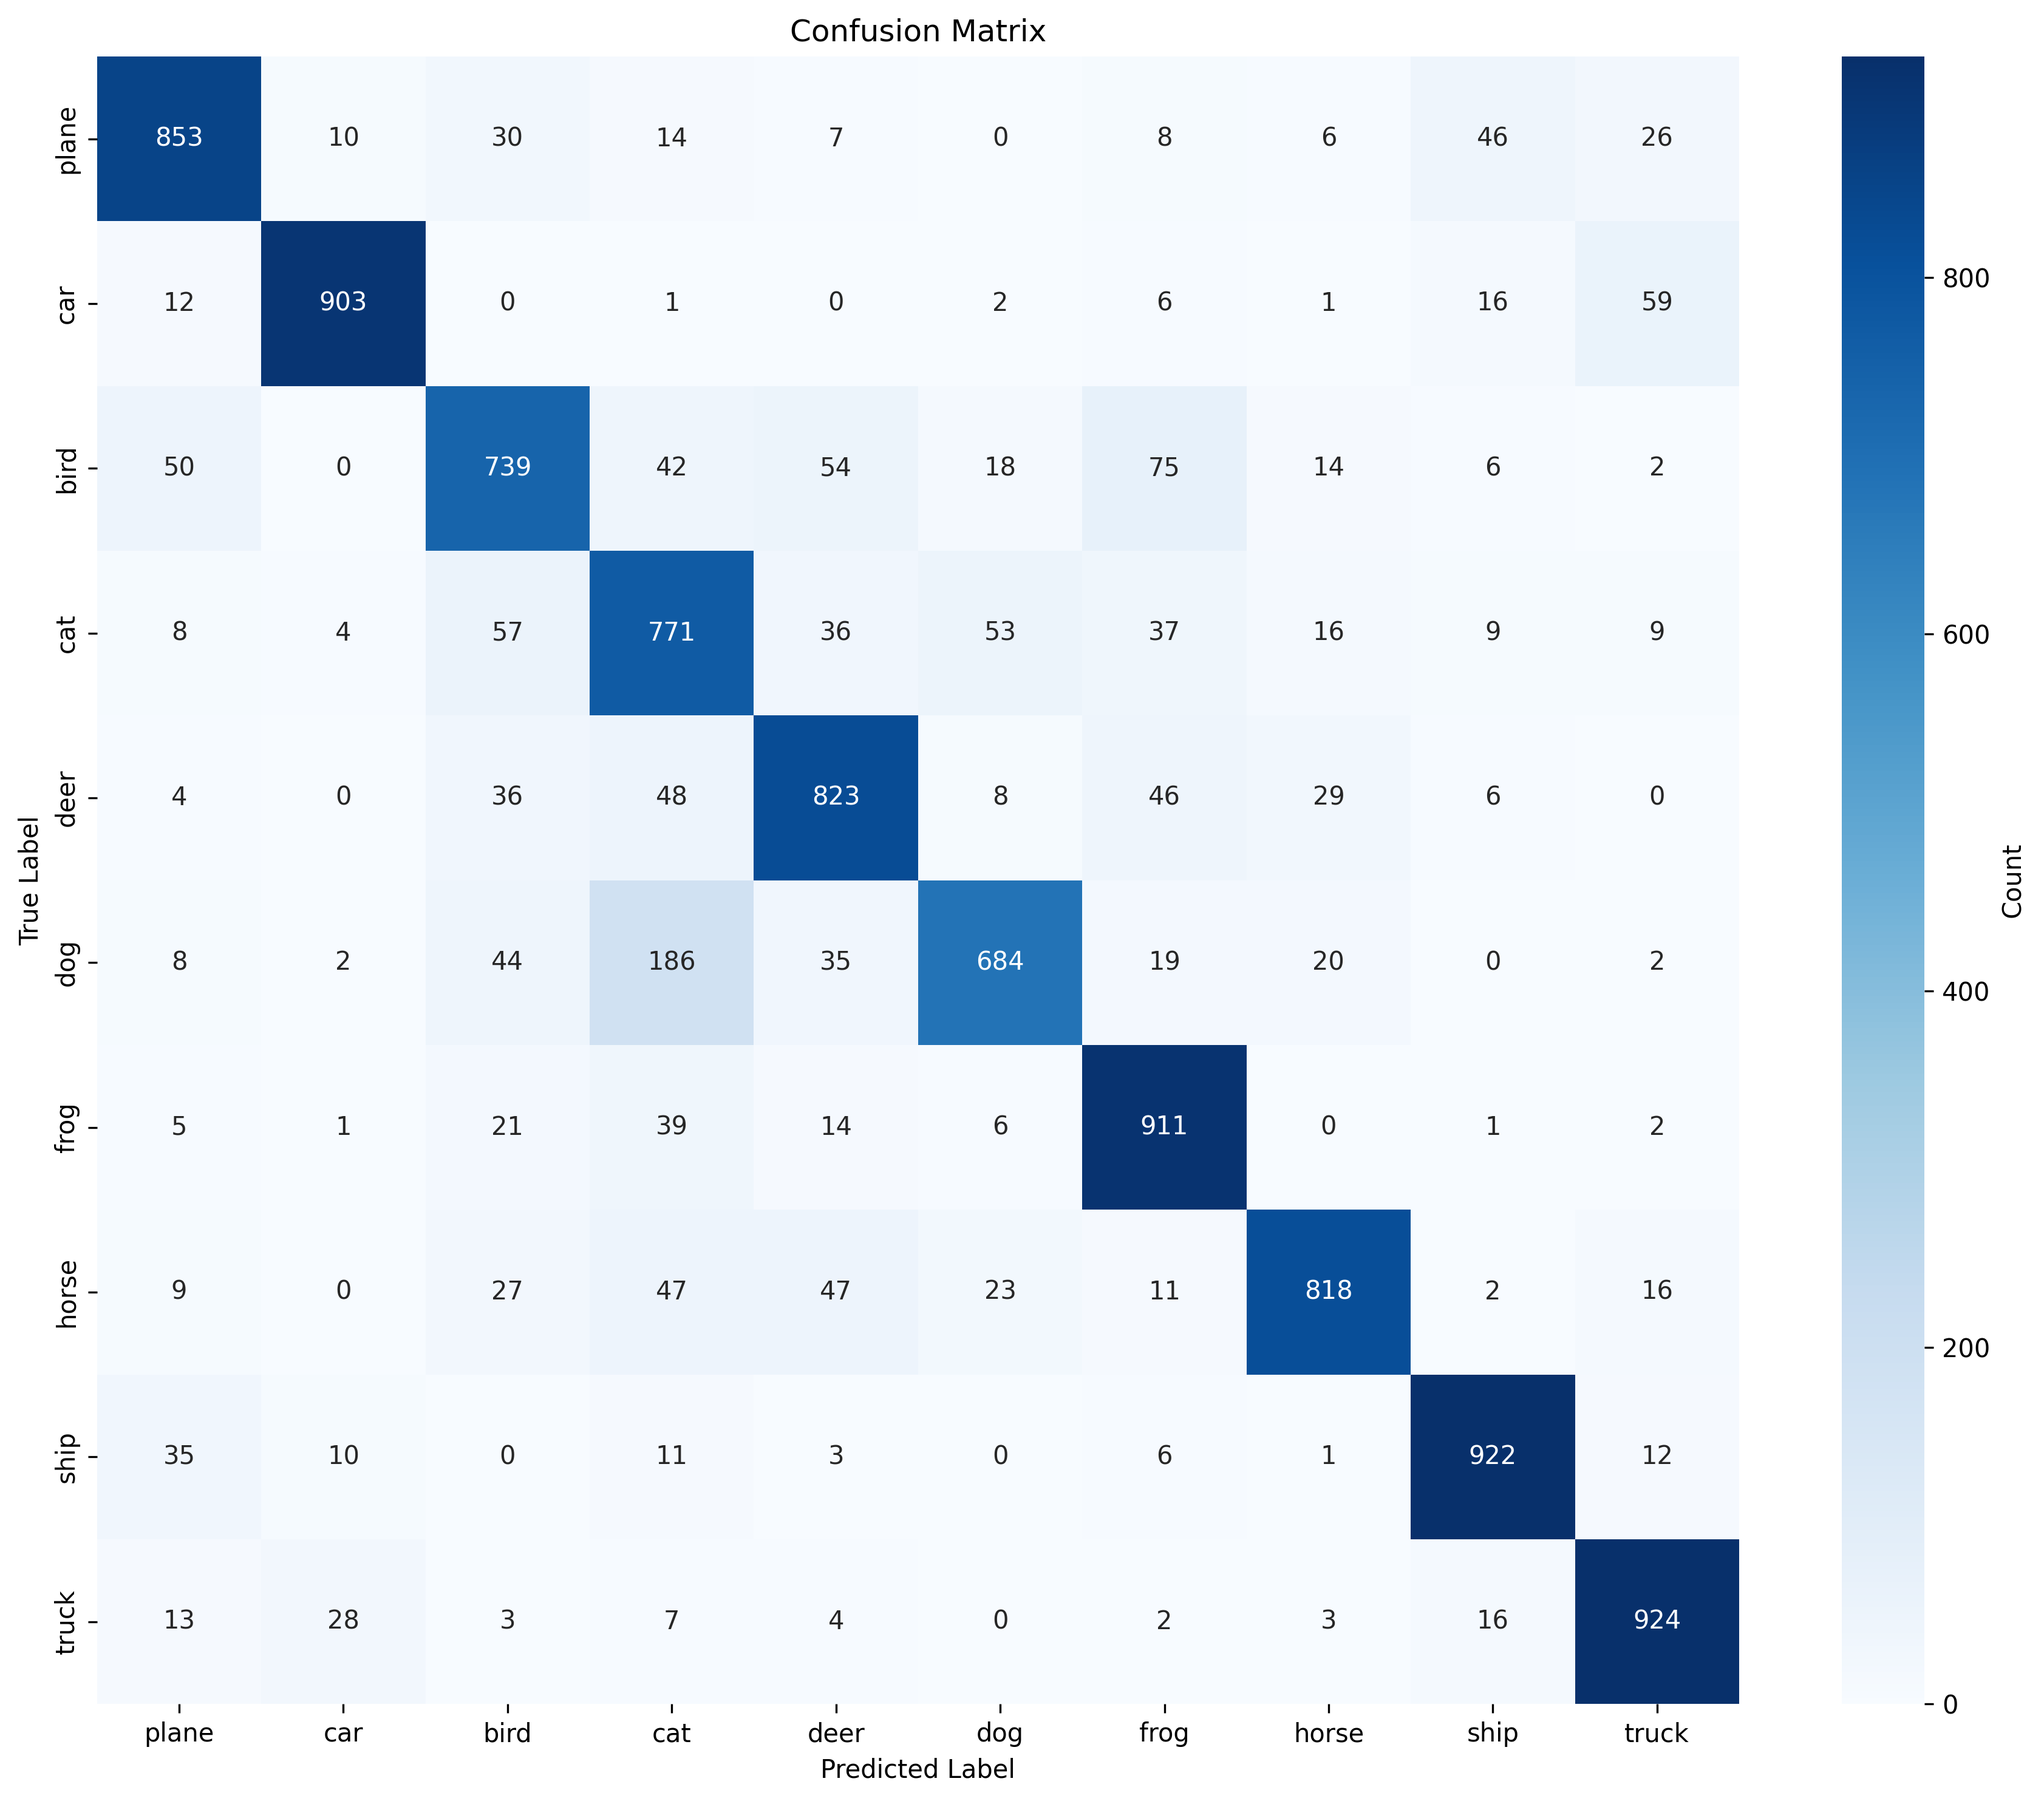
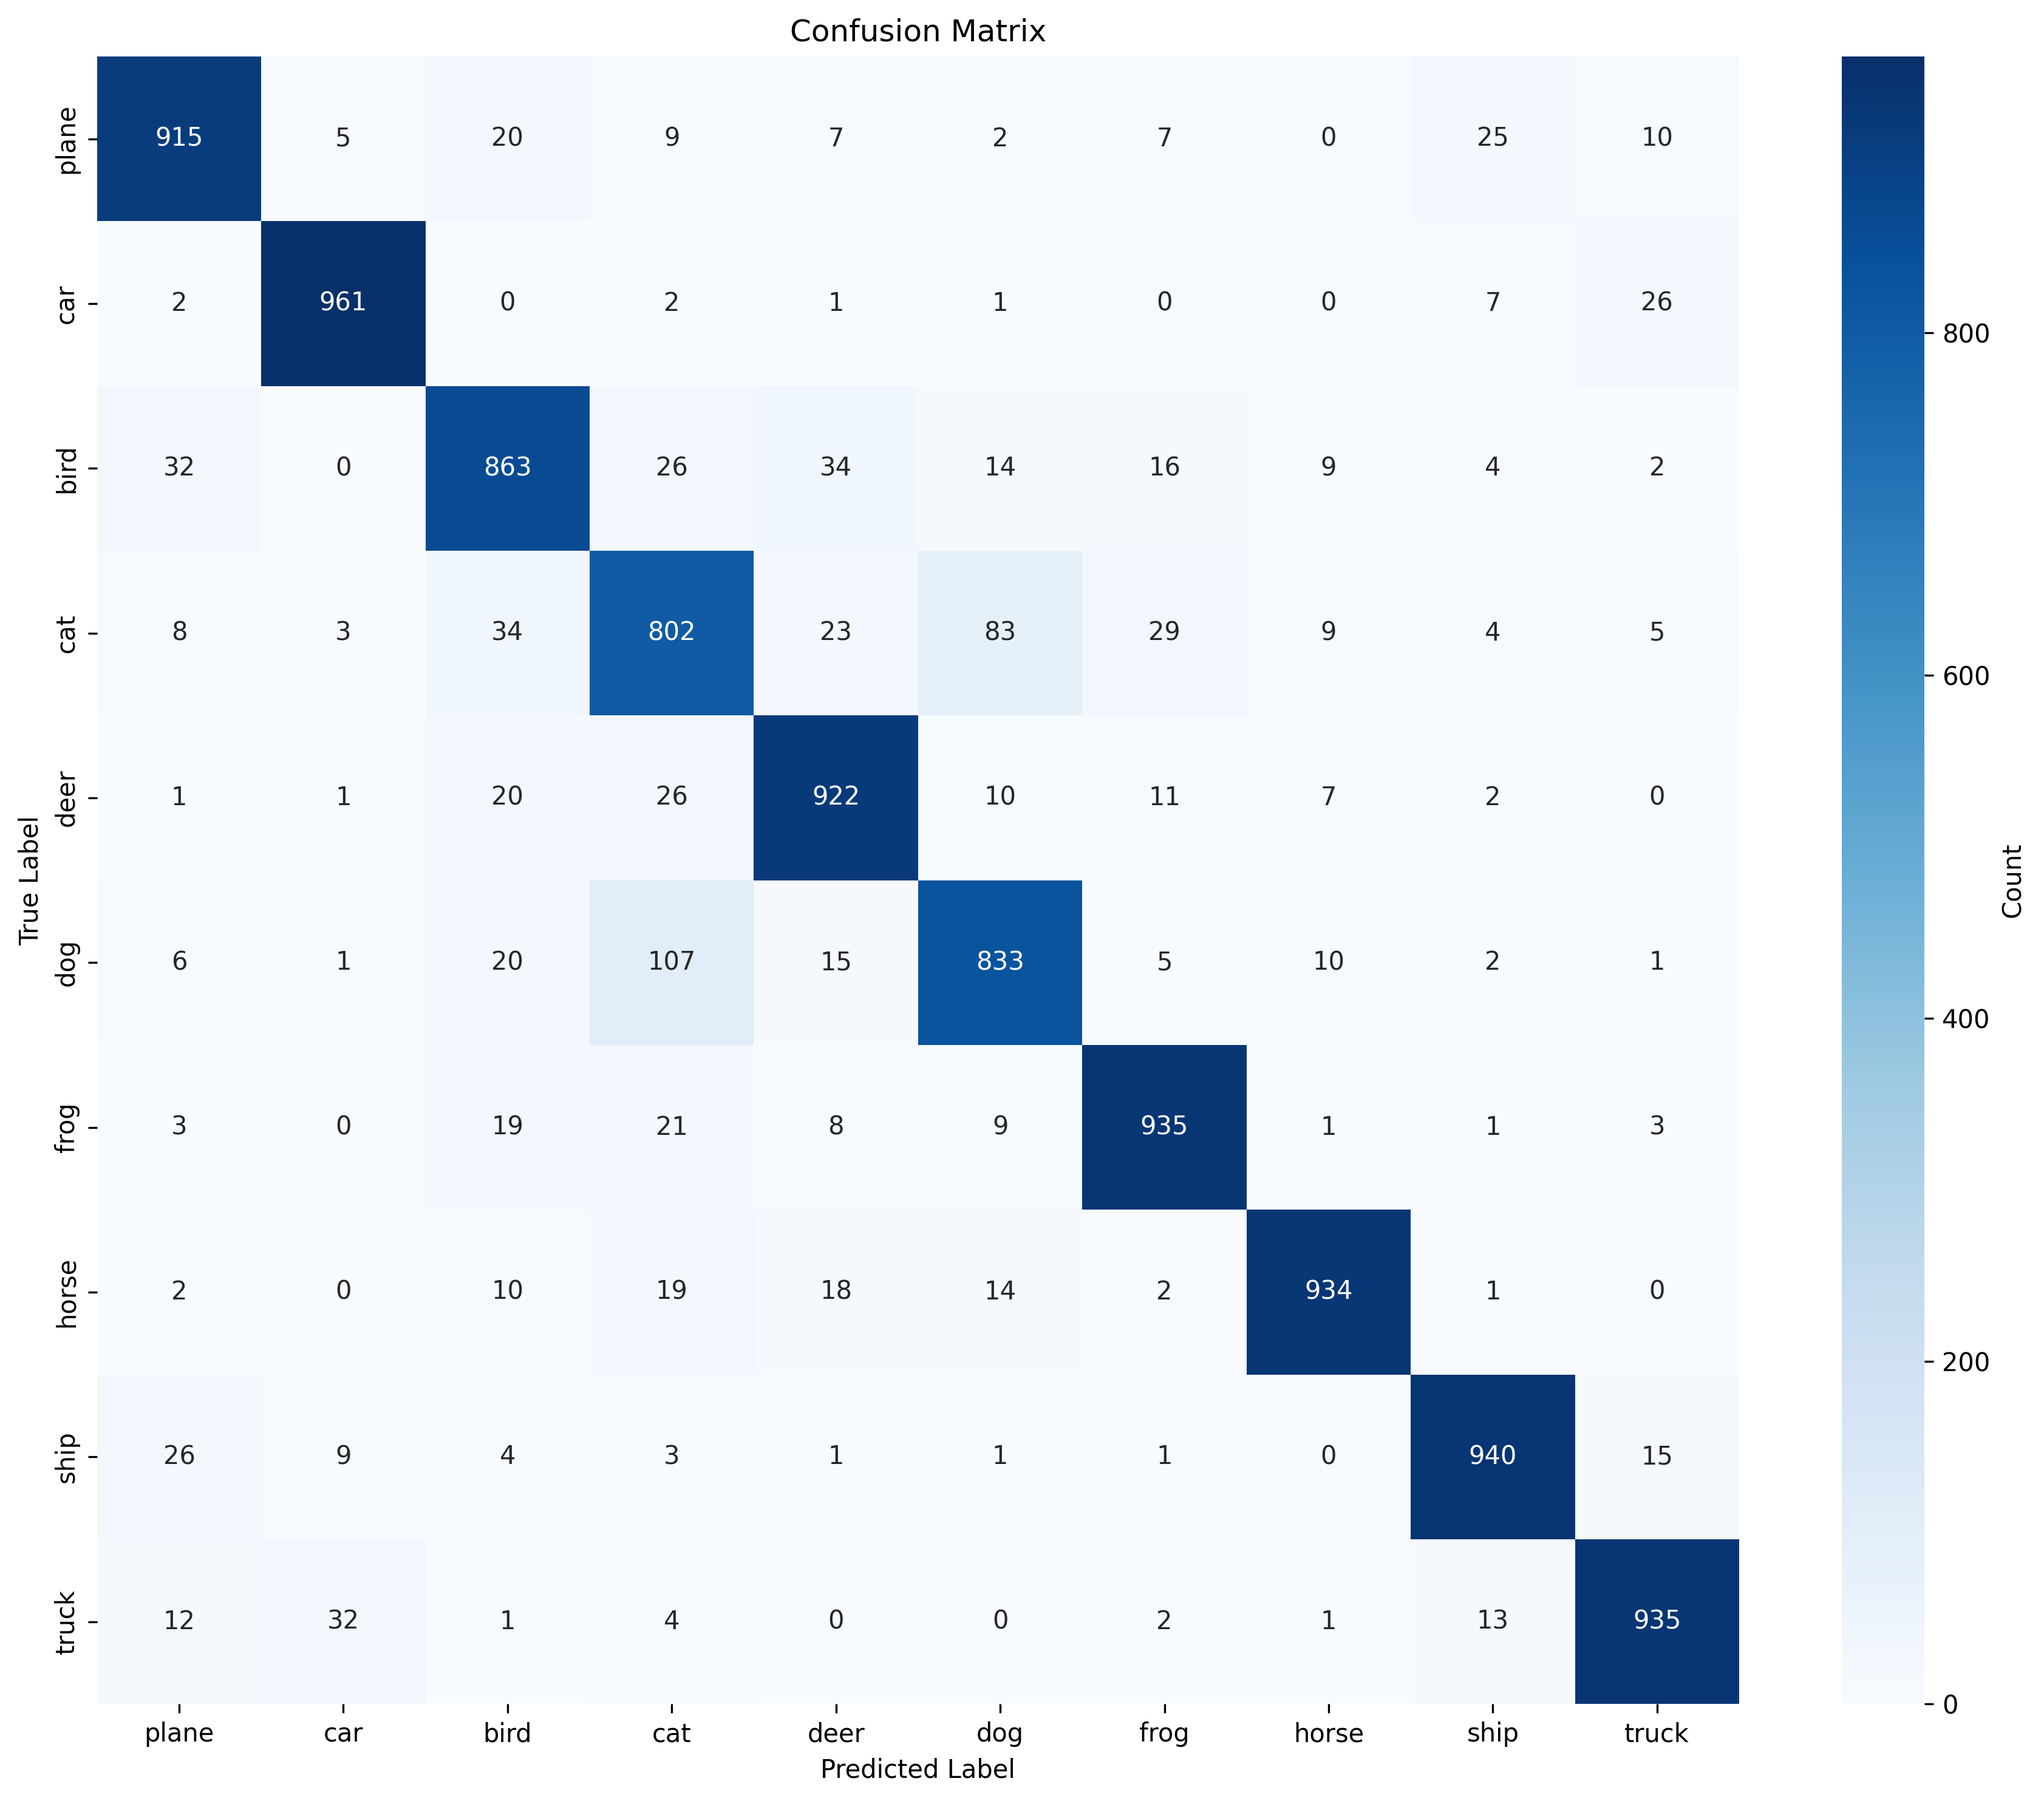
Update model, training code, and configurations

diff --git a/src/trainer.py b/src/trainer.py
@@ -17,6 +17,7 @@ class Trainer:
     def __init__(self, model, device):
         self.model = model
         self.device = device
+        self.amp_enabled = self.device.type == "cuda" and config.AMP_ENABLED
         
         # Move model to device
         self.model.to(device)
@@ -44,6 +45,9 @@ class Trainer:
         
         self.best_acc = 0.0
         self.patience_counter = 0
+
+        if self.amp_enabled:
+            print("Mixed precision (AMP): enabled")
     
     def _get_scheduler(self):
         """Get learning rate scheduler"""
@@ -69,12 +73,18 @@ class Trainer:
         for batch_idx, (inputs, targets) in enumerate(train_loader):
             inputs, targets = inputs.to(self.device), targets.to(self.device)
             
-            # Forward pass
-            outputs = self.model(inputs)
-            loss = self.criterion(outputs, targets)
-            
+            # Forward pass with mixed precision on CUDA.
+            with torch.autocast(
+                device_type=self.device.type,
+                dtype=torch.float16,
+                enabled=self.amp_enabled,
+            ):
+                outputs = self.model(inputs)
+                loss = self.criterion(outputs, targets)
+
             # Backward pass
-            self.optimizer.zero_grad()
+            self.optimizer.zero_grad(set_to_none=True)
+            # Autocast-only AMP keeps memory usage low on small GPUs.
             loss.backward()
             torch.nn.utils.clip_grad_norm_(self.model.parameters(), max_norm=1.0)
             self.optimizer.step()
@@ -109,8 +119,13 @@ class Trainer:
             for inputs, targets in val_loader:
                 inputs, targets = inputs.to(self.device), targets.to(self.device)
                 
-                outputs = self.model(inputs)
-                loss = self.criterion(outputs, targets)
+                with torch.autocast(
+                    device_type=self.device.type,
+                    dtype=torch.float16,
+                    enabled=self.amp_enabled,
+                ):
+                    outputs = self.model(inputs)
+                    loss = self.criterion(outputs, targets)
                 
                 acc1, acc5 = accuracy(outputs, targets, topk=(1, 5))
                 

diff --git a/src/utils.py b/src/utils.py
@@ -18,13 +18,21 @@ def set_seed(seed):
 
 
 def get_device():
-    """Get device (GPU or CPU)"""
-    if torch.cuda.is_available() and config.DEVICE == "cuda":
-        device = torch.device("cuda")
-        print(f"Using GPU: {torch.cuda.get_device_name(0)}")
-    else:
-        device = torch.device("cpu")
-        print("Using CPU")
+    """Return the configured device, falling back to CPU when CUDA is unavailable."""
+    requested_device = str(config.DEVICE).lower()
+
+    if requested_device.startswith("cuda"):
+        if torch.cuda.is_available():
+            device = torch.device(config.DEVICE)
+            print(f"Using GPU: {torch.cuda.get_device_name(device.index or 0)}")
+            return device
+
+        # A CPU-only PyTorch build or a missing/incompatible NVIDIA driver
+        # should not prevent inference in the Streamlit app.
+        print("CUDA is unavailable; falling back to CPU.")
+
+    device = torch.device("cpu")
+    print("Using CPU")
     return device
 
 
@@ -106,8 +114,12 @@ class AverageMeter:
 
 
 def accuracy(output, target, topk=(1,)):
-    """Calculate top-k accuracy"""
+    """Calculate top-k accuracy on CPU to avoid fragile CUDA top-k kernels."""
     with torch.no_grad():
+        # CIFAR-10 outputs are tiny (batch x 10), so this transfer is cheap
+        # and keeps metric calculation independent from CUDA kernel state.
+        output = output.detach().float().cpu()
+        target = target.detach().cpu()
         maxk = max(topk)
         batch_size = target.size(0)
         

diff --git a/src/config.py b/src/config.py
@@ -21,11 +21,12 @@ class Config:
     IMAGE_SIZE: int = 32
     
     # Training parameters
-    BATCH_SIZE: int = 64
+    # RTX 3050 Laptop (4 GB VRAM): keep this conservative when other GPU apps run.
+    BATCH_SIZE: int = 16
     LEARNING_RATE: float = 0.1
     MOMENTUM: float = 0.9
     WEIGHT_DECAY: float = 5e-4
-    NUM_EPOCHS: int = 5
+    NUM_EPOCHS: int = 200
     WARMUP_EPOCHS: int = 1
     
     # Optimizer & Scheduler
@@ -34,10 +35,11 @@ class Config:
     GAMMA: float = 0.1
     
     # Training setup
-    DEVICE: str = "cpu"  # "cuda" or "cpu"
+    DEVICE: str = "cuda"  # "cuda" or "cpu"
+    AMP_ENABLED: bool = True  # Mixed precision reduces GPU memory usage
     SEED: int = 42
     NUM_WORKERS: int = 0
-    PIN_MEMORY: bool = False
+    PIN_MEMORY: bool = True
     
     # Data augmentation
     AUGMENTATION_ENABLED: bool = False

diff --git a/src/model.py b/src/model.py
@@ -110,7 +110,14 @@ class ResNet(nn.Module):
         
         x = self.avg_pool(x)
         x = x.view(x.size(0), -1)
-        x = self.fc(x)
+
+        # Keep the small classification head in FP32. Some Windows/cuBLAS
+        # combinations reject FP16 inputs for this 512 -> 10 operation.
+        if x.is_cuda:
+            with torch.autocast(device_type="cuda", enabled=False):
+                x = self.fc(x.float())
+        else:
+            x = self.fc(x)
         
         return x
 

diff --git a/main.py b/main.py
@@ -21,6 +21,11 @@ from src.utils import set_seed, get_device, load_model, count_parameters
 
 def train(args):
     """Training pipeline"""
+
+    # Apply command-line training overrides before creating the data/model pipeline.
+    config.BATCH_SIZE = args.batch_size
+    config.NUM_EPOCHS = args.epochs
+    config.LEARNING_RATE = args.lr
     
     # Set seeds for reproducibility
     set_seed(config.SEED)
